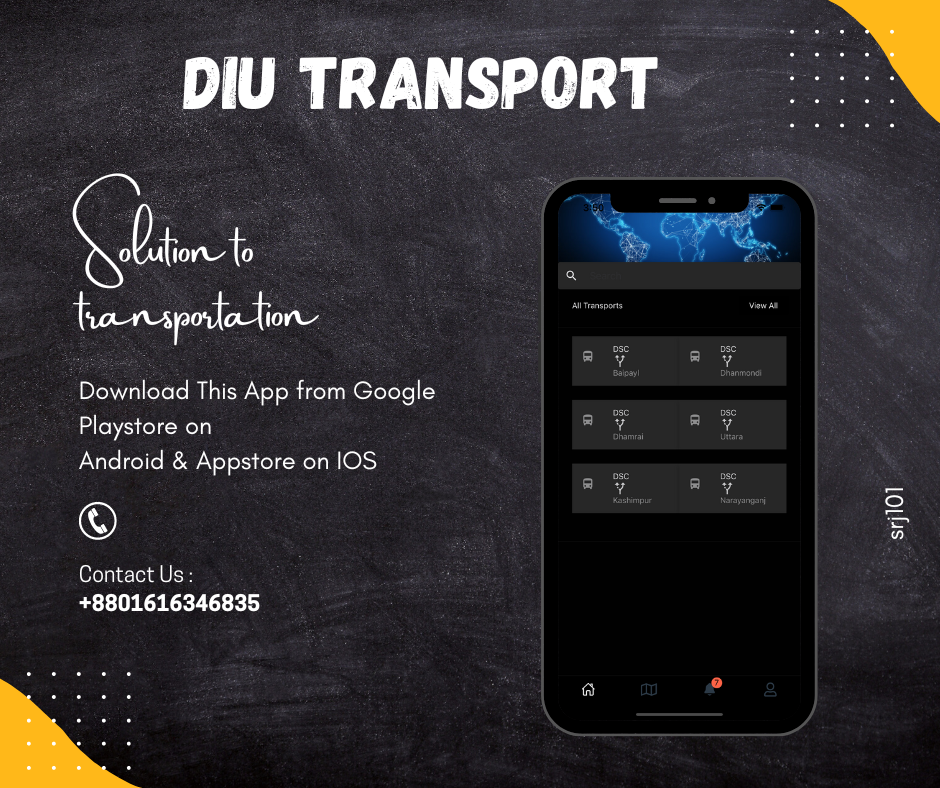
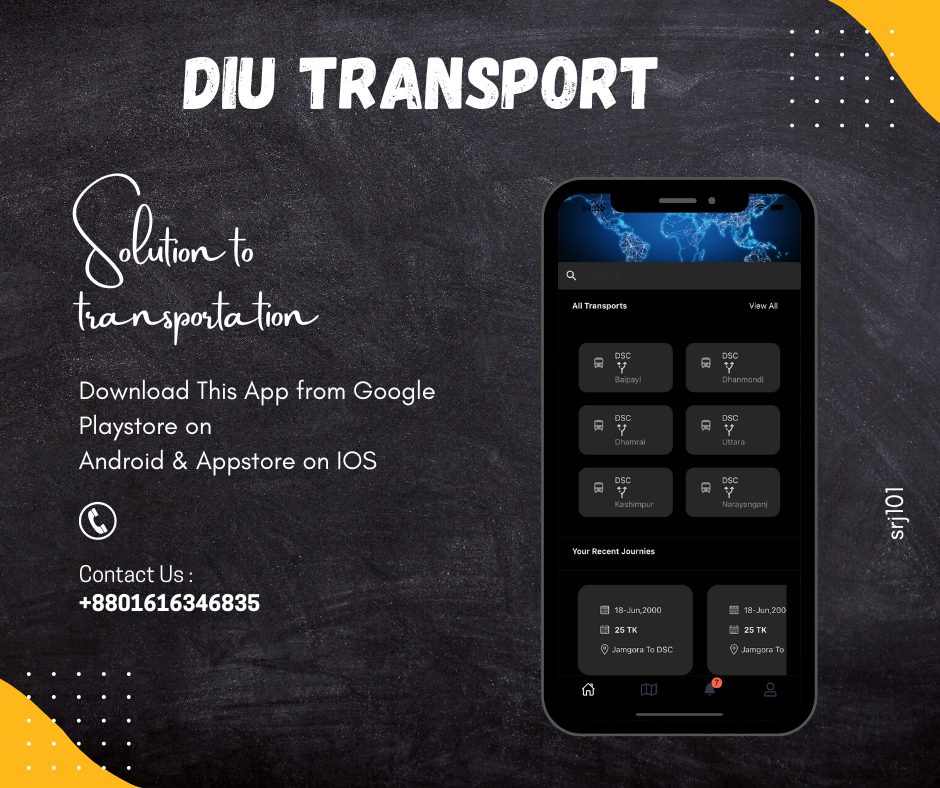
HomePage

diff --git a/components/Home/RecentTickets.js b/components/Home/RecentTickets.js
@@ -3,6 +3,7 @@ import React from "react";
 import { View, StyleSheet, ScrollView } from "react-native";
 import { Text, Surface, useTheme, Divider } from "react-native-paper";
 import EvilIcons from "react-native-vector-icons/EvilIcons";
+import { NavigationActions } from "react-navigation";
 
 const RecentTickets = ({ navigation }) => {
   const theme = useTheme();
@@ -10,7 +11,121 @@ const RecentTickets = ({ navigation }) => {
     <ScrollView horizontal showsHorizontalScrollIndicator={false}>
       <TouchableOpacity
         onPress={() =>
-          navigation.navigate("StuduentProfile", { screen: "TripHistory" })
+          navigation.navigate(
+            "StuduentProfile",
+            {},
+            NavigationActions.navigate({ routeName: "TripHistory" })
+          )
+        }
+      >
+        <Surface
+          elevation={5}
+          style={{
+            padding: 35,
+            marginLeft: 10,
+            marginTop: 10,
+            marginRight: 15,
+            marginBottom: 15,
+            borderRadius: 20,
+            backgroundColor: theme.colors.cardToggle,
+            justifyContent: "center",
+          }}
+        >
+          <View
+            style={{
+              flexDirection: "row",
+              alignItems: "center",
+              marginBottom: 15,
+            }}
+          >
+            <EvilIcons name="calendar" size={25} color={theme.colors.text} />
+            <Text style={{ marginLeft: 5 }}>18-Jun,2000</Text>
+          </View>
+
+          <View
+            style={{
+              flexDirection: "row",
+              alignItems: "center",
+              marginBottom: 15,
+            }}
+          >
+            <EvilIcons name="calendar" size={25} color={theme.colors.text} />
+            <Text style={{ fontWeight: "bold", marginLeft: 5 }}>25 TK</Text>
+          </View>
+
+          <View
+            style={{
+              flexDirection: "row",
+              alignItems: "center",
+            }}
+          >
+            <EvilIcons name="location" size={25} color={theme.colors.text} />
+            <Text>Jamgora To DSC</Text>
+          </View>
+        </Surface>
+      </TouchableOpacity>
+      <TouchableOpacity
+        onPress={() =>
+          navigation.navigate(
+            "StuduentProfile",
+            {},
+            NavigationActions.navigate({ routeName: "TripHistory" })
+          )
+        }
+      >
+        <Surface
+          elevation={5}
+          style={{
+            padding: 35,
+            marginLeft: 10,
+            marginTop: 10,
+            marginRight: 15,
+            marginBottom: 15,
+            borderRadius: 20,
+            backgroundColor: theme.colors.cardToggle,
+            justifyContent: "center",
+          }}
+        >
+          <View
+            style={{
+              flexDirection: "row",
+              alignItems: "center",
+              marginBottom: 15,
+            }}
+          >
+            <EvilIcons name="calendar" size={25} color={theme.colors.text} />
+            <Text style={{ marginLeft: 5 }}>18-Jun,2000</Text>
+          </View>
+
+          <View
+            style={{
+              flexDirection: "row",
+              alignItems: "center",
+              marginBottom: 15,
+            }}
+          >
+            <EvilIcons name="calendar" size={25} color={theme.colors.text} />
+            <Text style={{ fontWeight: "bold", marginLeft: 5 }}>25 TK</Text>
+          </View>
+
+          <View
+            style={{
+              flexDirection: "row",
+              alignItems: "center",
+            }}
+          >
+            <EvilIcons name="location" size={25} color={theme.colors.text} />
+            <Text>Jamgora To DSC</Text>
+          </View>
+        </Surface>
+      </TouchableOpacity>
+      <TouchableOpacity
+        onPress={() =>
+          navigation.navigate(
+            "StuduentProfile",
+            {},
+            NavigationActions.navigate({ routeName: "TripHistory" })
+          )
         }
       >
         <Surface

diff --git a/components/Home/RouteList.js b/components/Home/RouteList.js
@@ -28,7 +28,9 @@ const RouteList = ({ navigation, route }) => {
               />
             </>
           )}
-          left={(props) => <List.Icon {...props} icon="bus" />}
+          left={(props) => (
+            <List.Icon {...props} icon="bus" style={{ marginRight: 0 }} />
+          )}
         />
       </Surface>
       <Surface
@@ -51,7 +53,9 @@ const RouteList = ({ navigation, route }) => {
               />
             </>
           )}
-          left={(props) => <List.Icon {...props} icon="bus" />}
+          left={(props) => (
+            <List.Icon {...props} icon="bus" style={{ marginRight: 0 }} />
+          )}
         />
       </Surface>
       <Surface
@@ -74,7 +78,9 @@ const RouteList = ({ navigation, route }) => {
               />
             </>
           )}
-          left={(props) => <List.Icon {...props} icon="bus" />}
+          left={(props) => (
+            <List.Icon {...props} icon="bus" style={{ marginRight: 0 }} />
+          )}
         />
       </Surface>
       <Surface
@@ -97,7 +103,9 @@ const RouteList = ({ navigation, route }) => {
               />
             </>
           )}
-          left={(props) => <List.Icon {...props} icon="bus" />}
+          left={(props) => (
+            <List.Icon {...props} icon="bus" style={{ marginRight: 0 }} />
+          )}
         />
       </Surface>
       <Surface
@@ -120,7 +128,9 @@ const RouteList = ({ navigation, route }) => {
               />
             </>
           )}
-          left={(props) => <List.Icon {...props} icon="bus" />}
+          left={(props) => (
+            <List.Icon {...props} icon="bus" style={{ marginRight: 0 }} />
+          )}
         />
       </Surface>
       <Surface
@@ -143,7 +153,9 @@ const RouteList = ({ navigation, route }) => {
               />
             </>
           )}
-          left={(props) => <List.Icon {...props} icon="bus" />}
+          left={(props) => (
+            <List.Icon {...props} icon="bus" style={{ marginRight: 0 }} />
+          )}
         />
       </Surface>
     </View>
@@ -161,6 +173,7 @@ const styles = StyleSheet.create({
   item: {
     width: "44%",
     margin: "3%",
+    borderRadius: 15,
   },
 });
 

diff --git a/navigation/StudentStack.js b/navigation/StudentStack.js
@@ -38,7 +38,7 @@ const StudentStack = () => {
       <Drawer.Navigator
         drawerContent={(props) => <CustomDrawer {...props} />}
         screenOptions={{
-          headerShown: true,
+          headerShown: false,
           drawerActiveBackgroundColor: theme.colors.accent,
           drawerActiveTintColor: "#fff",
           drawerInactiveTintColor: "#333",
